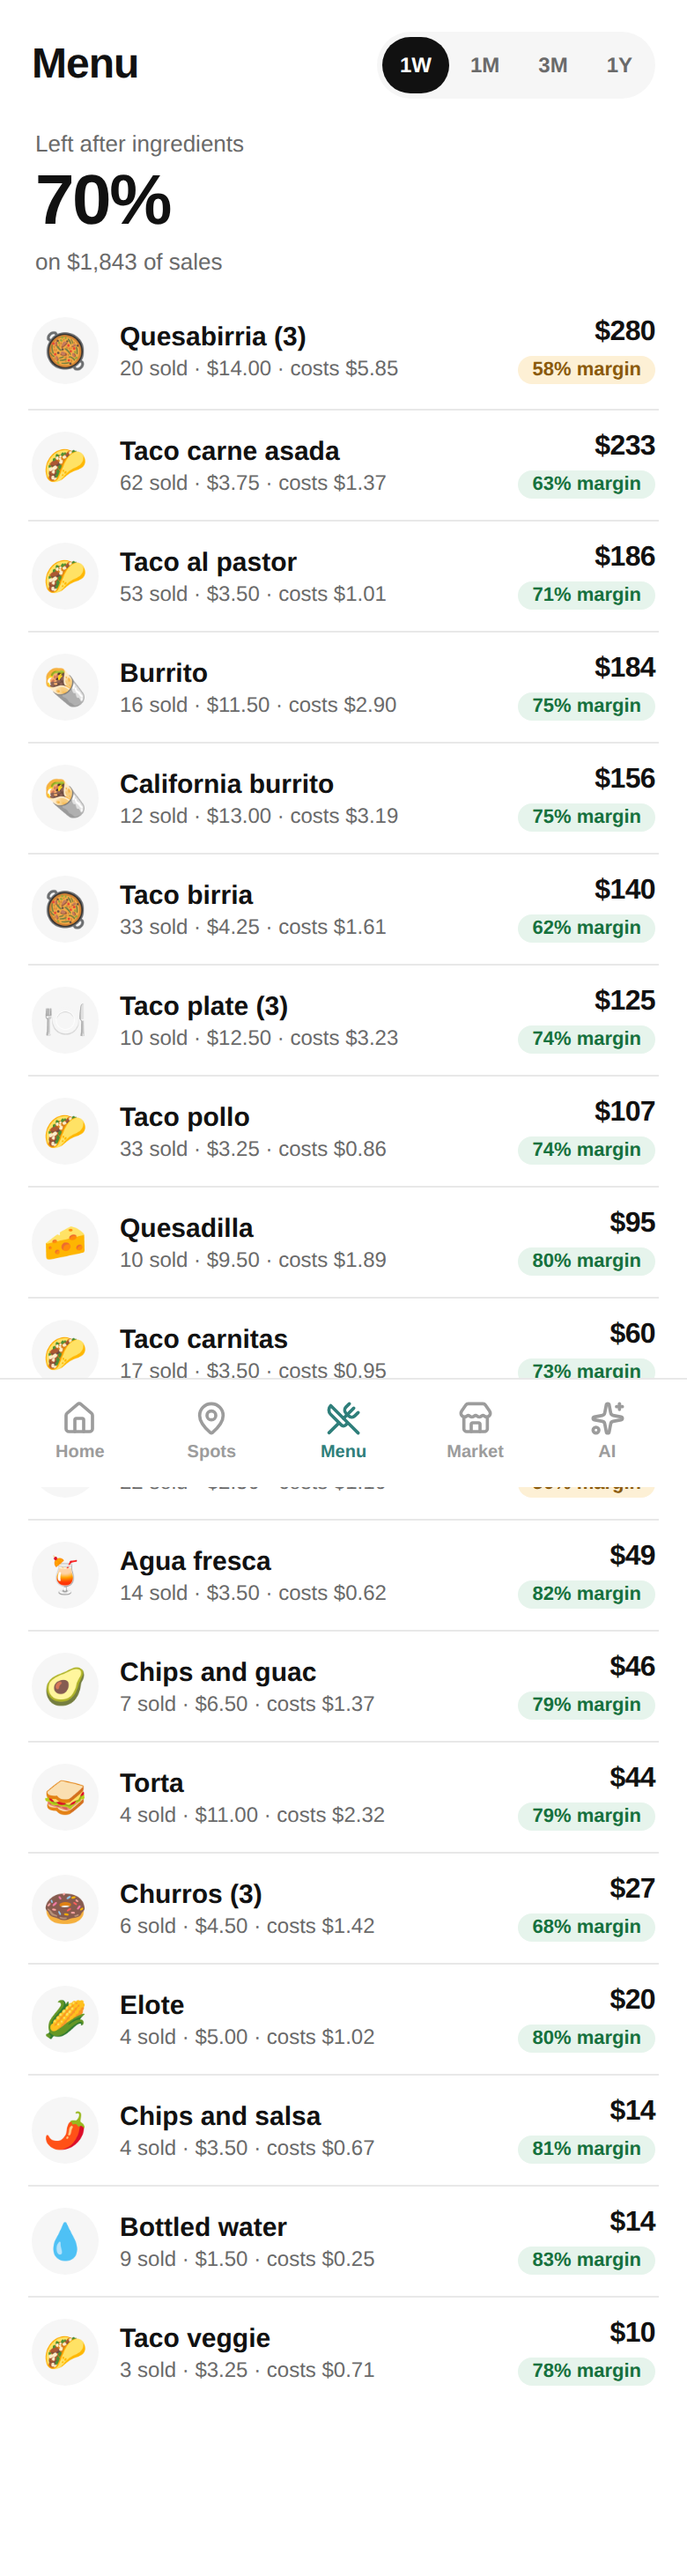
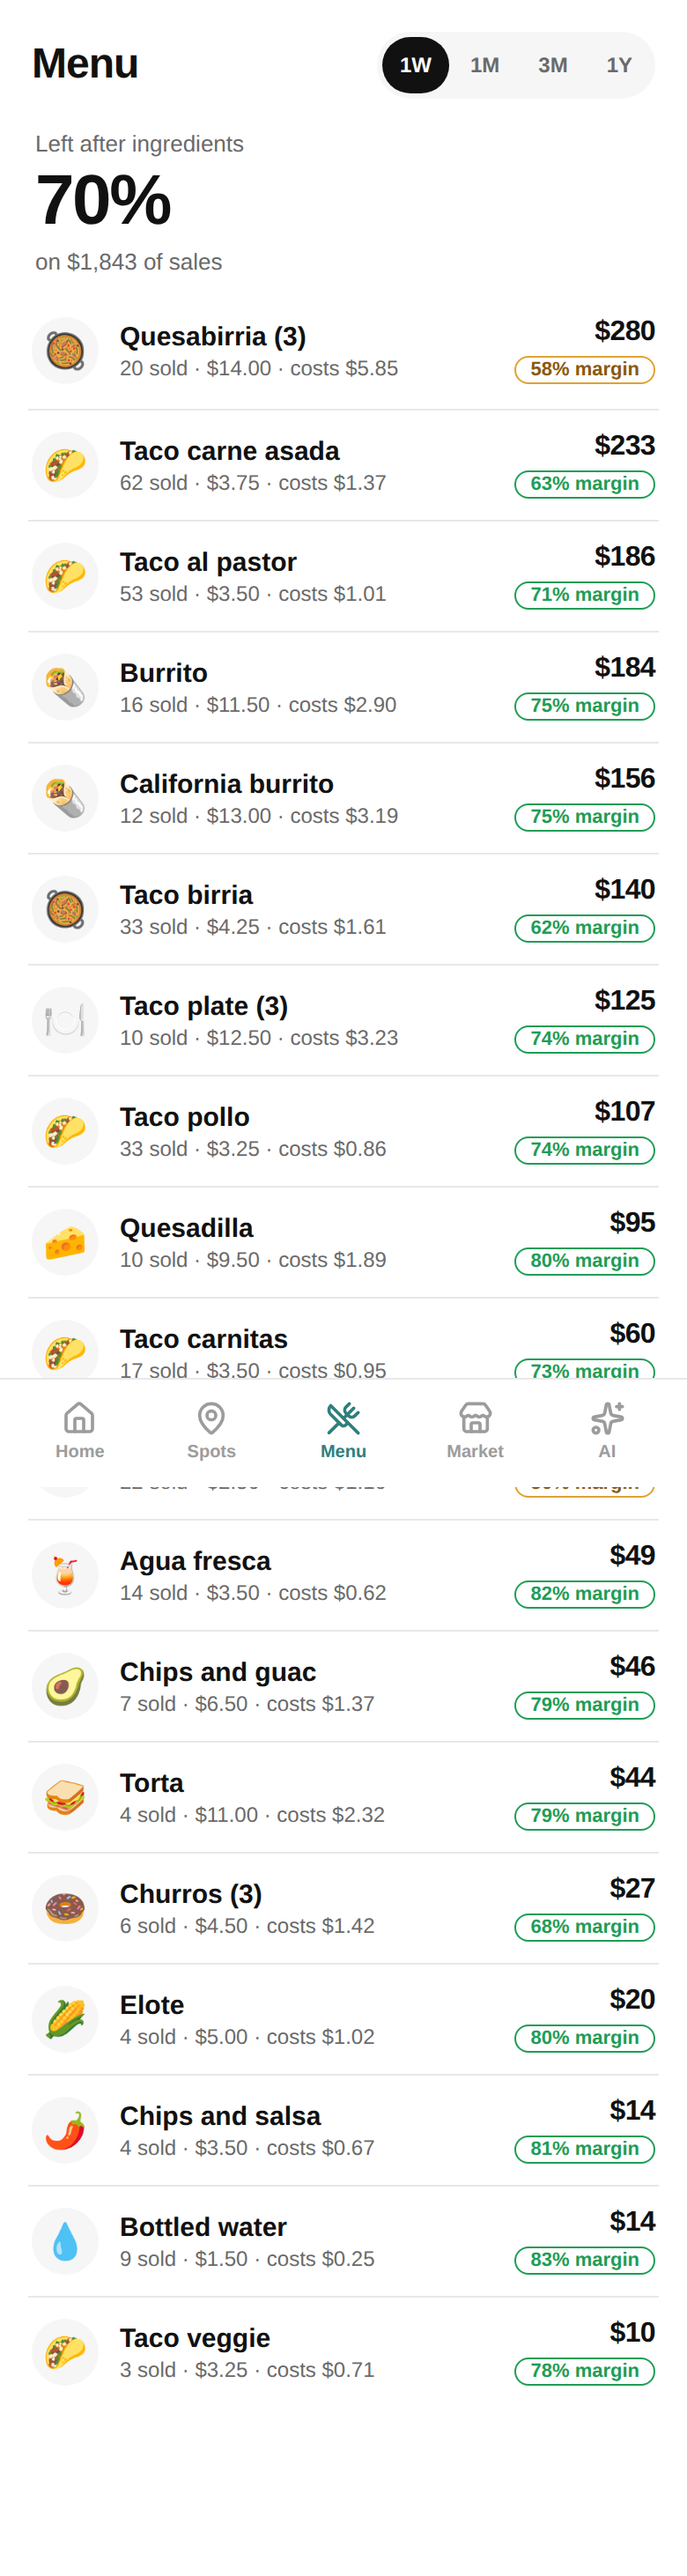
Outlined red/green tags on Menu, Market and Money too
Claude-Session: https://claude.ai/code/session_011kULvXi1EhLGoQfkcWDNEp

diff --git a/food-truck-app/src/app.css b/food-truck-app/src/app.css
@@ -93,10 +93,10 @@ h2 { font-size: 16px; font-weight: 700; }
 .feed-amt { font-size: 16px; font-weight: 800; letter-spacing: -0.02em; font-variant-numeric: tabular-nums; white-space: nowrap; }
 .feed-amt small { font-size: 11px; color: var(--ink-3); font-weight: 600; }
 .feed-right { display: flex; flex-direction: column; align-items: flex-end; gap: 4px; flex: none; }
-.feed-tag { font-size: 11px; font-weight: 700; padding: 2px 8px; border-radius: 999px; }
-.feed-tag.good { background: var(--good-soft); color: var(--good-ink); }
-.feed-tag.warn { background: var(--warn-soft); color: var(--warn-ink); }
-.feed-tag.bad { background: var(--bad-soft); color: var(--bad-ink); }
+.feed-tag { font-size: 11px; font-weight: 700; padding: 1px 8px; border-radius: 999px; border: 1px solid transparent; }
+.feed-tag.good { color: var(--good); border-color: var(--good); }
+.feed-tag.warn { color: var(--warn-ink); border-color: var(--warn); }
+.feed-tag.bad { color: var(--bad); border-color: var(--bad); }
 .feed-bar { width: 72px; height: 5px; background: var(--line); border-radius: 999px; overflow: hidden; }
 .feed-bar span { display: block; height: 100%; background: var(--ink); border-radius: 999px; }
 .feed-bar span.warn { background: var(--warn); }
@@ -117,7 +117,7 @@ h2 { font-size: 16px; font-weight: 700; }
 
 /* ===== Breakdown (Money) ===== */
 .bd { list-style: none; margin: 0; padding: 0; }
-.bd-row { display: grid; grid-template-columns: 1fr 44px 36px 74px 40px; gap: 6px; align-items: center; padding: 10px 0; border-top: 1px solid var(--line); font-size: 13px; }
+.bd-row { display: grid; grid-template-columns: 1fr 36px 34px 72px 50px; gap: 6px; align-items: center; padding: 10px 0; border-top: 1px solid var(--line); font-size: 13px; }
 .bd-row.plain { grid-template-columns: 1fr auto; }
 .bd-label { white-space: nowrap; overflow: hidden; text-overflow: ellipsis; }
 .bd-row:first-child { border-top: 0; }
@@ -128,9 +128,9 @@ h2 { font-size: 16px; font-weight: 700; }
 .bd-bar span { display: block; height: 100%; background: var(--ink); border-radius: 999px; }
 .bd-share { font-size: 12px; color: var(--ink-3); text-align: right; font-variant-numeric: tabular-nums; }
 .bd-val { text-align: right; font-variant-numeric: tabular-nums; }
-.bd-ch { font-size: 11px; text-align: right; color: var(--ink-3); font-variant-numeric: tabular-nums; }
-.bd-ch.up { color: var(--good); }
-.bd-ch.down { color: var(--bad); }
+.bd-ch { font-size: 10px; font-weight: 700; text-align: center; color: var(--ink-3); font-variant-numeric: tabular-nums; border-radius: 999px; border: 1px solid transparent; padding: 1px 0; justify-self: end; min-width: 44px; }
+.bd-ch.up { color: var(--good); border-color: var(--good); }
+.bd-ch.down { color: var(--bad); border-color: var(--bad); }
 
 /* ===== Bars chart ===== */
 .bars { margin-top: 10px; position: relative; }
@@ -196,7 +196,7 @@ h2 { font-size: 16px; font-weight: 700; }
 
 /* ===== Market table ===== */
 .rows { padding: 0 2px; }
-.price-head, .price-main { display: grid; grid-template-columns: 1fr 64px 76px 54px; gap: 6px; align-items: center; }
+.price-head, .price-main { display: grid; grid-template-columns: 1fr 60px 72px 62px; gap: 6px; align-items: center; }
 .price-head { font-size: 11px; color: var(--ink-3); text-transform: uppercase; letter-spacing: 0.04em; padding: 10px 0 6px; }
 .price-head span:not(:first-child), .price-you, .price-avg, .price-diff { text-align: right; font-variant-numeric: tabular-nums; }
 .price-row { border-top: 1px solid var(--line); padding: 12px 0; cursor: pointer; min-height: 48px; }
@@ -204,9 +204,9 @@ h2 { font-size: 16px; font-weight: 700; }
 .price-you { font-weight: 800; font-size: 16px; }
 .price-avg { font-weight: 600; font-size: 14px; color: var(--ink-2); }
 .price-range { font-size: 11px; color: var(--ink-3); text-align: right; line-height: 1.3; font-variant-numeric: tabular-nums; }
-.price-diff { font-size: 13px; font-weight: 700; }
-.price-diff.down { color: var(--bad); }
-.price-diff.up { color: var(--good); }
+.price-diff { font-size: 12px; font-weight: 700; border-radius: 999px; border: 1px solid transparent; padding: 1px 6px; justify-self: end; text-align: center !important; white-space: nowrap; }
+.price-diff.down { color: var(--bad); border-color: var(--bad); }
+.price-diff.up { color: var(--good); border-color: var(--good); }
 .price-diff.flat { color: var(--ink-3); }
 .rivals { list-style: none; margin: 10px 0 0; padding: 10px 0 0; border-top: 1px solid var(--line); display: flex; flex-direction: column; gap: 6px; font-size: 13px; }
 .rivals li { display: grid; grid-template-columns: 1fr auto 58px; gap: 8px; align-items: baseline; }

diff --git a/food-truck-app/src/screens/Market.tsx b/food-truck-app/src/screens/Market.tsx
@@ -25,7 +25,7 @@ export default function Market() {
 
       <Card className="rows">
         <div className="price-head">
-          <span>Item</span><span>You</span><span>Market avg</span><span>Diff</span>
+          <span>Item</span><span>You</span><span>Market</span><span>Diff</span>
         </div>
         {rows.map((b) => {
           const you = b.hero_price!
@@ -62,7 +62,7 @@ export default function Market() {
         <p className="sub" style={{ margin: '0 0 4px' }}>What other trucks sell that you don't. Tap one to see who sells it.</p>
         <Card className="rows">
           <div className="price-head">
-            <span>Item</span><span>Trucks</span><span>Market avg</span><span>Range</span>
+            <span>Item</span><span>Trucks</span><span>Market</span><span>Range</span>
           </div>
           {missing.map((b) => {
             const isOpen = open === b.standard_item
